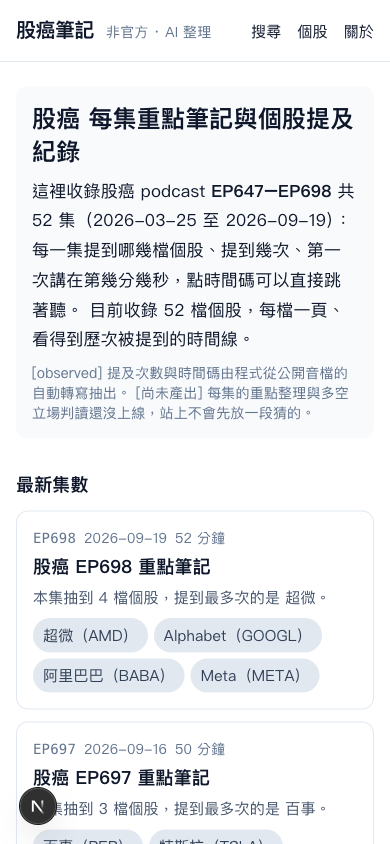
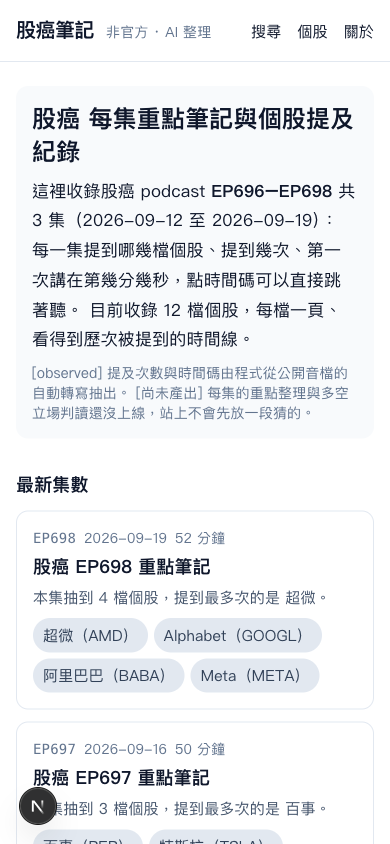
Stop the price columns from wrapping on narrow screens (RF-1107)
Change-Kind: fix

diff --git a/app/ticker/[symbol]/page.tsx b/app/ticker/[symbol]/page.tsx
@@ -143,9 +143,9 @@ export default async function TickerPage({ params }: { params: Promise<{ symbol:
             <p className="mt-2 text-[15px] text-slate-600 dark:text-slate-300">
               {r.quote ? `「${r.quote.slice(0, 60)}」` : '原話待補'}
             </p>
-            <dl className="mt-2 flex gap-4 text-sm text-slate-500 dark:text-slate-400">
+            <dl className="mt-2 flex flex-wrap gap-x-4 gap-y-1 text-sm text-slate-500 dark:text-slate-400">
               {(['px_1d', 'px_5d', 'px_21d'] as const).map((k, i) => (
-                <div key={k} className="flex gap-1">
+                <div key={k} className="flex gap-1 whitespace-nowrap">
                   <dt>提到後 {[1, 5, 21][i]} 日</dt>
                   <dd className="font-mono tabular-nums">{r[k] === null ? '待補' : pct(r[k])}</dd>
                 </div>

diff --git a/components/MentionCard.tsx b/components/MentionCard.tsx
@@ -34,9 +34,9 @@ export default function MentionCard({ m }: { m: Mention }) {
         {m.quote ? `「${m.quote.slice(0, 60)}」` : '原話待補'}
       </p>
 
-      <dl className="mt-2 flex gap-4 text-sm text-slate-500 dark:text-slate-400">
+      <dl className="mt-2 flex flex-wrap gap-x-4 gap-y-1 text-sm text-slate-500 dark:text-slate-400">
         {(['px_1d', 'px_5d', 'px_21d'] as const).map((k, i) => (
-          <div key={k} className="flex gap-1">
+          <div key={k} className="flex gap-1 whitespace-nowrap">
             <dt>提到後 {[1, 5, 21][i]} 日</dt>
             <dd className="font-mono tabular-nums">{m[k] === null ? '待補' : pct(m[k])}</dd>
           </div>
